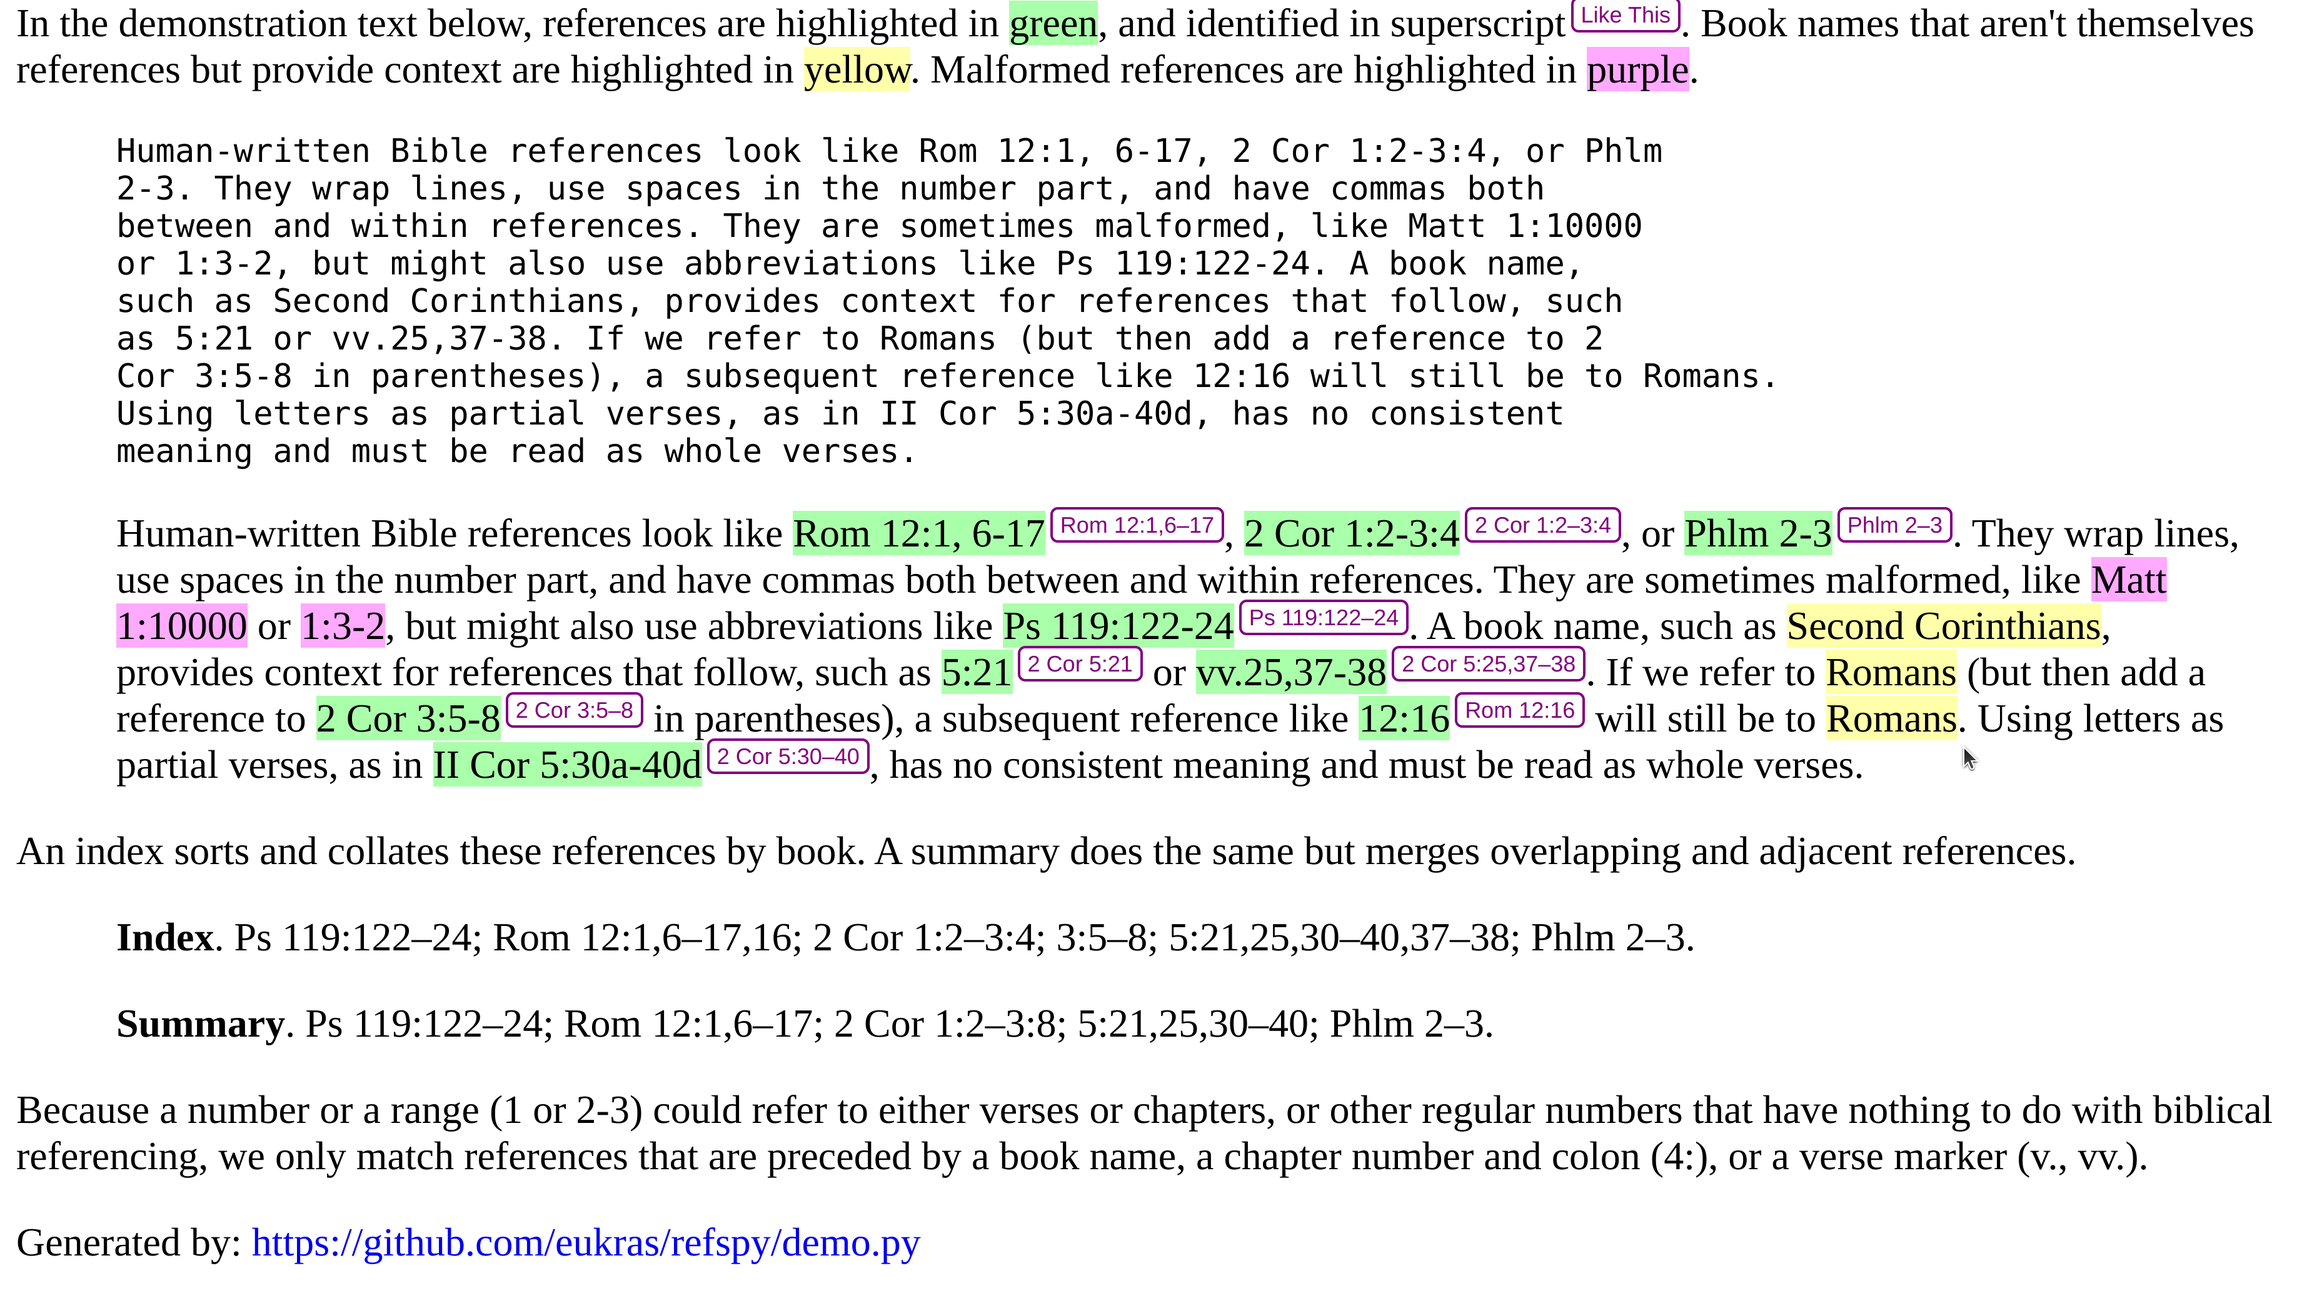
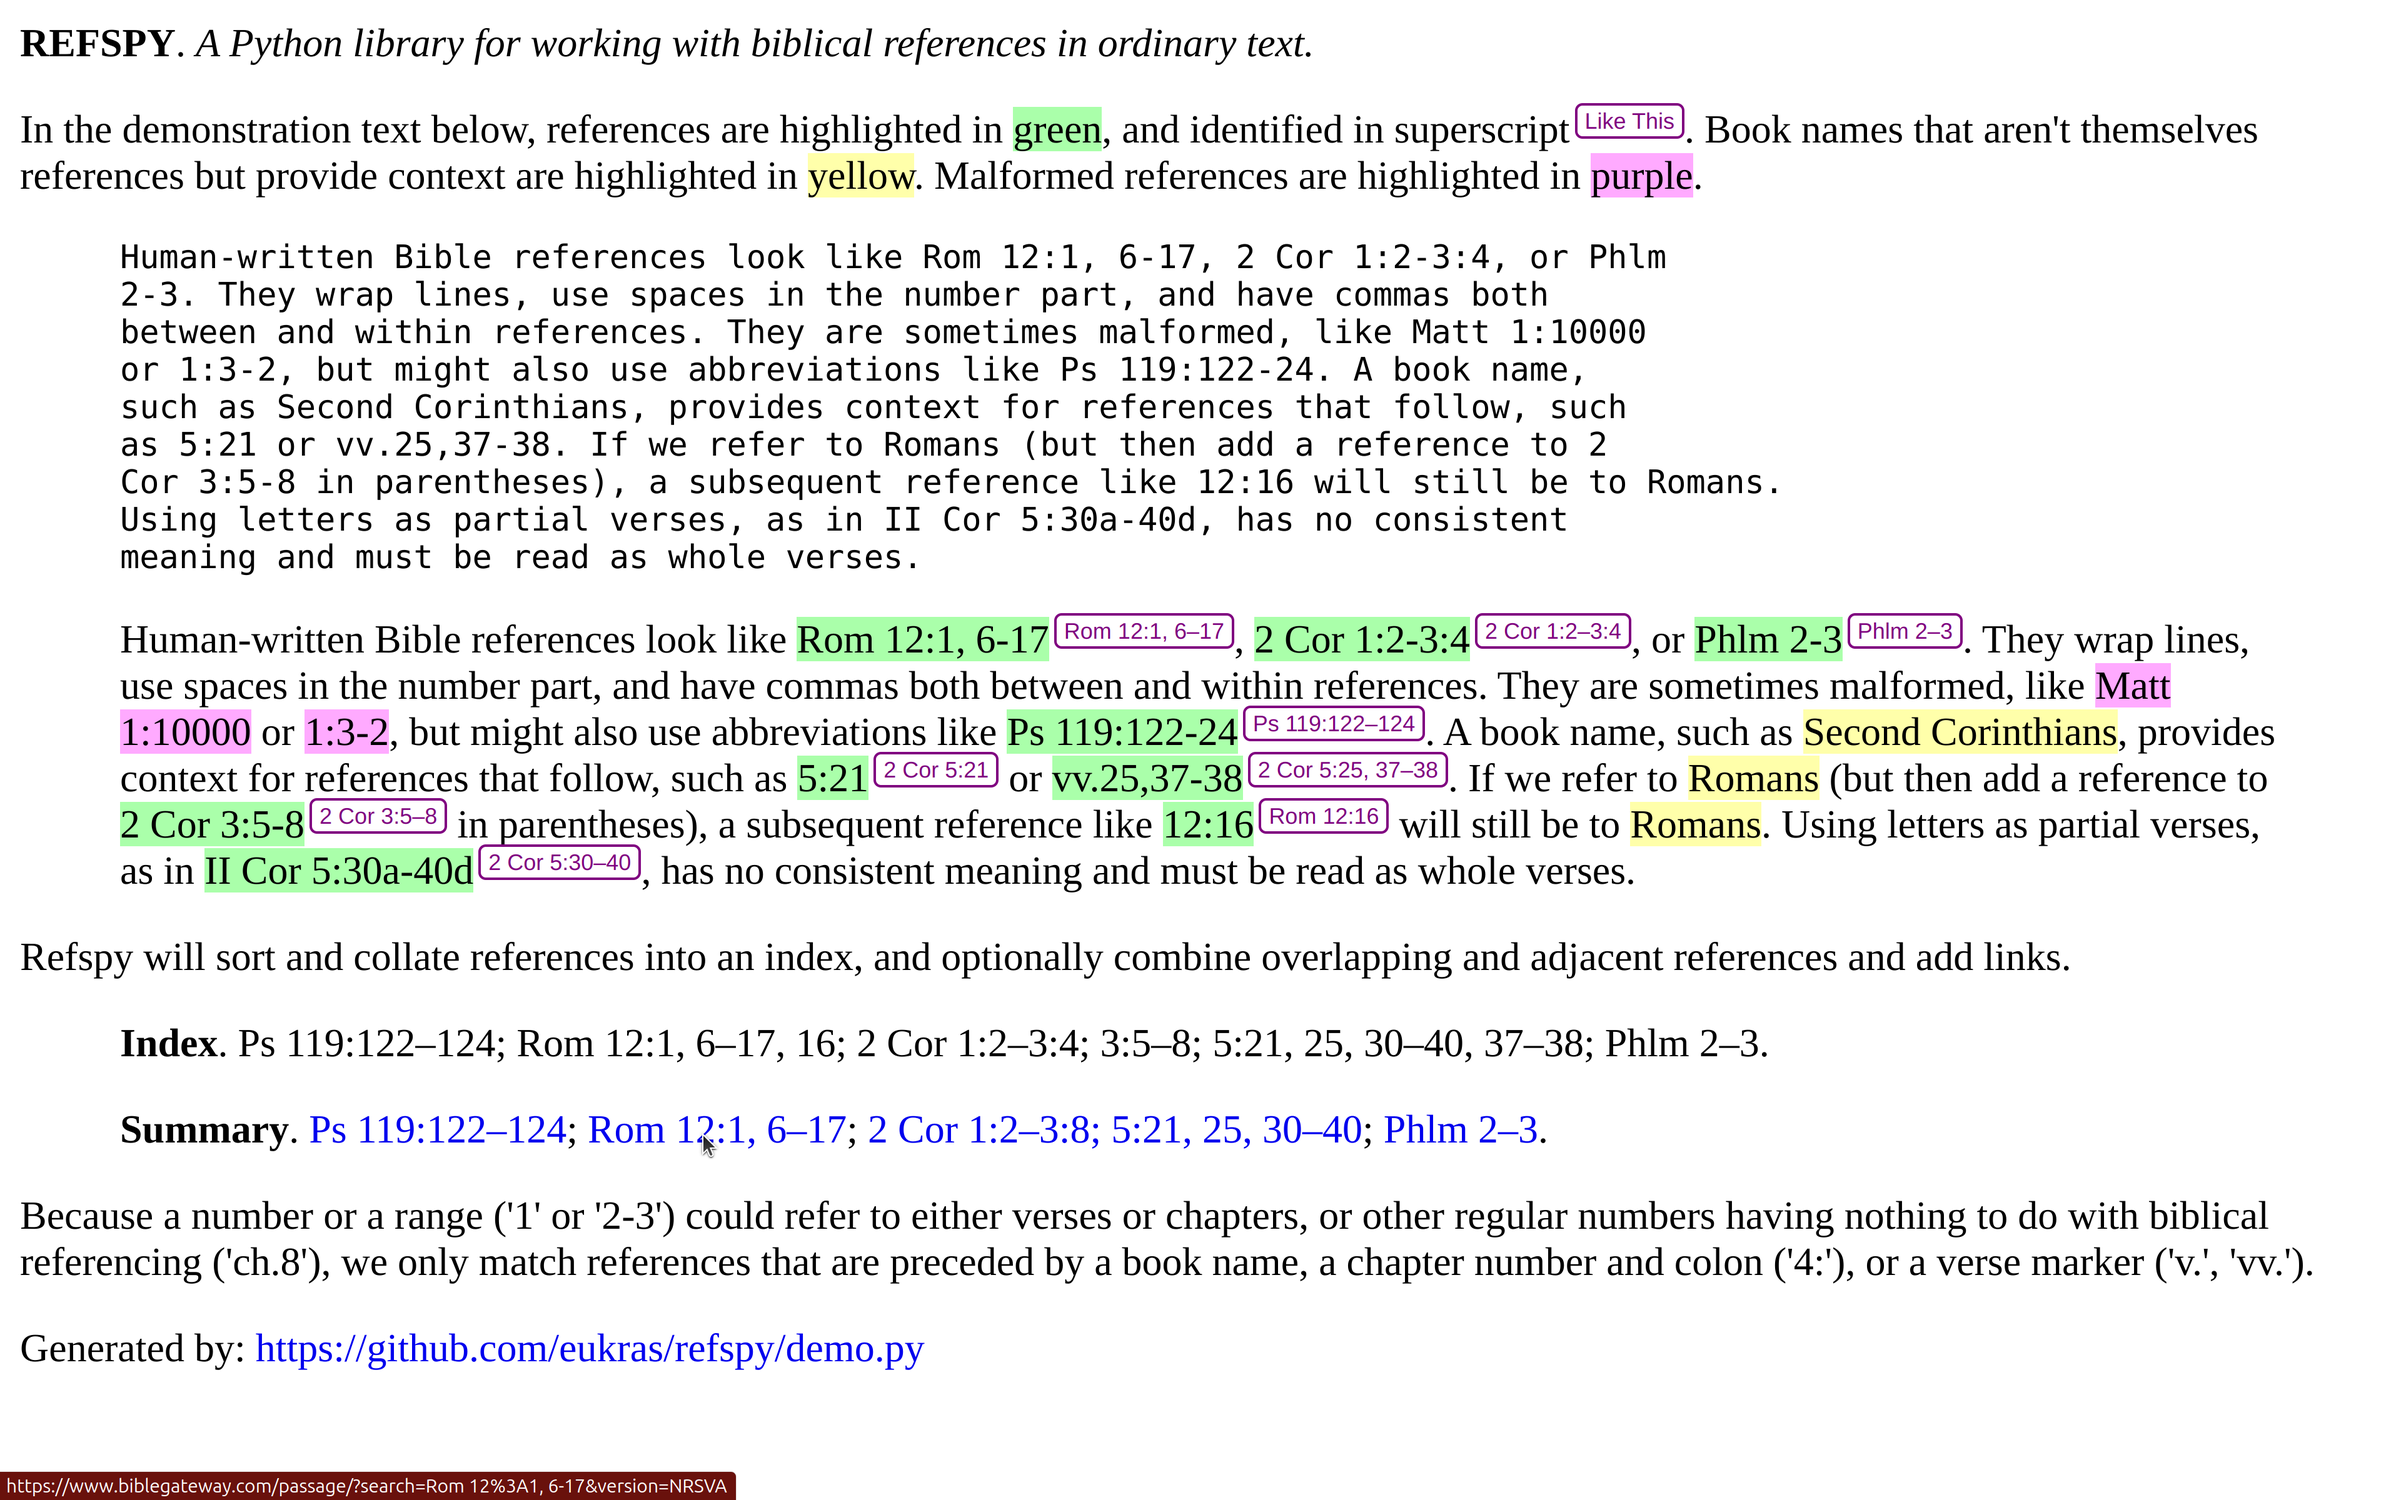
Update demo.py

Changed region(s): [[0.0, 0.0, 0.9973, 0.9249], [0.0, 0.9557, 0.4051, 1.0]]

diff --git a/demo.html b/demo.html
@@ -34,24 +34,26 @@ Using letters as partial verses, as in II Cor 5:30a-40d, has no consistent
 meaning and must be read as whole verses.
 </pre></blockquote>
         <blockquote>
-Human-written Bible references look like <span class="green">Rom 12:1, 6-17</span><sup>Rom 12:1,6–17</sup>, <span class="green">2 Cor 1:2-3:4</span><sup>2 Cor 1:2–3:4</sup>, or <span class="green">Phlm
+Human-written Bible references look like <span class="green">Rom 12:1, 6-17</span><sup>Rom 12:1, 6–17</sup>, <span class="green">2 Cor 1:2-3:4</span><sup>2 Cor 1:2–3:4</sup>, or <span class="green">Phlm
 2-3</span><sup>Phlm 2–3</sup>. They wrap lines, use spaces in the number part, and have commas both
 between and within references. They are sometimes malformed, like <span class="purple">Matt 1:10000</span>
-or <span class="purple">1:3-2</span>, but might also use abbreviations like <span class="green">Ps 119:122-24</span><sup>Ps 119:122–24</sup>. A book name,
+or <span class="purple">1:3-2</span>, but might also use abbreviations like <span class="green">Ps 119:122-24</span><sup>Ps 119:122–124</sup>. A book name,
 such as <span class="yellow">Second Corinthians</span>, provides context for references that follow, such
-as <span class="green">5:21</span><sup>2 Cor 5:21</sup> or <span class="green">vv.25,37-38</span><sup>2 Cor 5:25,37–38</sup>. If we refer to <span class="yellow">Romans</span> (but then add a reference to <span class="green">2
+as <span class="green">5:21</span><sup>2 Cor 5:21</sup> or <span class="green">vv.25,37-38</span><sup>2 Cor 5:25, 37–38</sup>. If we refer to <span class="yellow">Romans</span> (but then add a reference to <span class="green">2
 Cor 3:5-8</span><sup>2 Cor 3:5–8</sup> in parentheses), a subsequent reference like <span class="green">12:16</span><sup>Rom 12:16</sup> will still be to <span class="yellow">Romans</span>.
 Using letters as partial verses, as in <span class="green">II Cor 5:30a-40d</span><sup>2 Cor 5:30–40</sup>, has no consistent
 meaning and must be read as whole verses.
 </blockquote>
-        <p>An index sorts and collates these references by book. A summary does
-        the same but merges overlapping and adjacent references.</p>
-        <blockquote><b>Index</b>. Ps 119:122–24; Rom 12:1,6–17,16; 2 Cor 1:2–3:4; 3:5–8; 5:21,25,30–40,37–38; Phlm 2–3.</blockquote>
-        <blockquote><b>Summary</b>. Ps 119:122–24; Rom 12:1,6–17; 2 Cor 1:2–3:8; 5:21,25,30–40; Phlm 2–3.</blockquote>
-        <p> Because a number or a range (1 or 2-3) could refer to either verses or
-        chapters, or other regular numbers that have nothing to do with biblical
-        referencing, we only match references that are preceded by a book name, a
-        chapter number and colon (4:), or a verse marker (v., vv.).</p>
+        <p>Refspy will sort and collate references into an index, and
+        optionally combine overlapping and adjacent references and add
+        links.</p>
+        <blockquote><b>Index</b>. Ps 119:122–124; Rom 12:1, 6–17, 16; 2 Cor 1:2–3:4; 3:5–8; 5:21, 25, 30–40, 37–38; Phlm 2–3.</blockquote>
+        <blockquote><b>Summary</b>. <a href="https://www.biblegateway.com/passage/?search=Ps%20119%3A122-124&version=NRSVA"  target="_blank">Ps 119:122–124</a>; <a href="https://www.biblegateway.com/passage/?search=Rom%2012%3A1,%206-17&version=NRSVA"  target="_blank">Rom 12:1, 6–17</a>; <a href="https://www.biblegateway.com/passage/?search=2%20Cor%201%3A2-3%3A8;%205%3A21,%2025,%2030-40&version=NRSVA"  target="_blank">2 Cor 1:2–3:8; 5:21, 25, 30–40</a>; <a href="https://www.biblegateway.com/passage/?search=Phlm%202-3&version=NRSVA"  target="_blank">Phlm 2–3</a>.</blockquote>
+        <p> Because a number or a range ('1' or '2-3') could refer to either
+        verses or chapters, or other regular numbers having nothing to do with
+        biblical referencing ('ch.8'), we only match references that are
+        preceded by a book name, a chapter number and colon ('4:'), or a verse
+        marker ('v.', 'vv.').</p>
         <p>Generated by: <a href="https://github.com/eukras/refspy/demo.py">https://github.com/eukras/refspy/demo.py</a><p>
     </body>
 </html>

diff --git a/demo.py b/demo.py
@@ -1,8 +1,5 @@
 from refspy import refspy
-from refspy.reference import reference
 from refspy.utils import sequential_replace
-
-URL = "https://github.com/eukras/refspy/demo.py"
 
 __ = refspy()
 
@@ -28,11 +25,21 @@ for match_str, ref in matches:
         tags.append(f'<span class="yellow">{match_str}</span>')
     else:
         tags.append(
-            f'<span class="green">{match_str}</span><sup>{__.abbrev(ref)}</sup>'
+            f'<span class="green">{match_str}</span><sup>{__.abbrev_name(ref)}</sup>'
         )
-references = [ref for _, ref in matches]
+
+references = [ref for _, ref in matches if ref and not ref.is_book()]
 index = __.make_index(references)
-summary = __.make_summary(references)
+
+bible_gateway = (
+    '<a href="https://www.biblegateway.com/passage/'
+    + '?search={ESC_ABBREV_NAME}&version=NRSVA" '
+    + ' target="_blank">{ABBREV_NAME}</a>'
+)
+
+summary = __.make_summary(references, pattern=bible_gateway)
+
+GENERATOR = "https://github.com/eukras/refspy/demo.py"
 
 print("""
 <html>
@@ -60,15 +67,17 @@ print(f"""
         class="purple">purple</span>.</p>
         <blockquote><pre>{text}</pre></blockquote>
         <blockquote>{sequential_replace(text, strs, tags)}</blockquote>
-        <p>An index sorts and collates these references by book. A summary does
-        the same but merges overlapping and adjacent references.</p>
+        <p>Refspy will sort and collate references into an index, and
+        optionally combine overlapping and adjacent references and add
+        links.</p>
         <blockquote><b>Index</b>. {index}.</blockquote>
         <blockquote><b>Summary</b>. {summary}.</blockquote>
-        <p> Because a number or a range (1 or 2-3) could refer to either verses or
-        chapters, or other regular numbers that have nothing to do with biblical
-        referencing, we only match references that are preceded by a book name, a
-        chapter number and colon (4:), or a verse marker (v., vv.).</p>
-        <p>Generated by: <a href="{URL}">{URL}</a><p>
+        <p> Because a number or a range ('1' or '2-3') could refer to either
+        verses or chapters, or other regular numbers having nothing to do with
+        biblical referencing ('ch.8'), we only match references that are
+        preceded by a book name, a chapter number and colon ('4:'), or a verse
+        marker ('v.', 'vv.').</p>
+        <p>Generated by: <a href="{GENERATOR}">{GENERATOR}</a><p>
     </body>
 </html>
 """)
